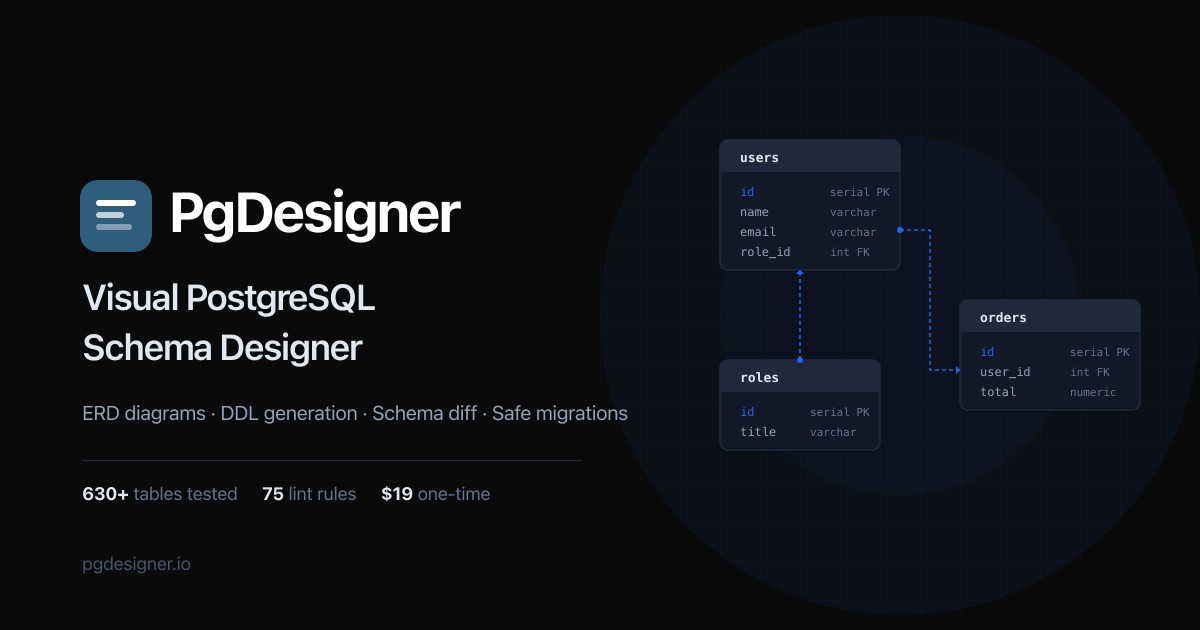
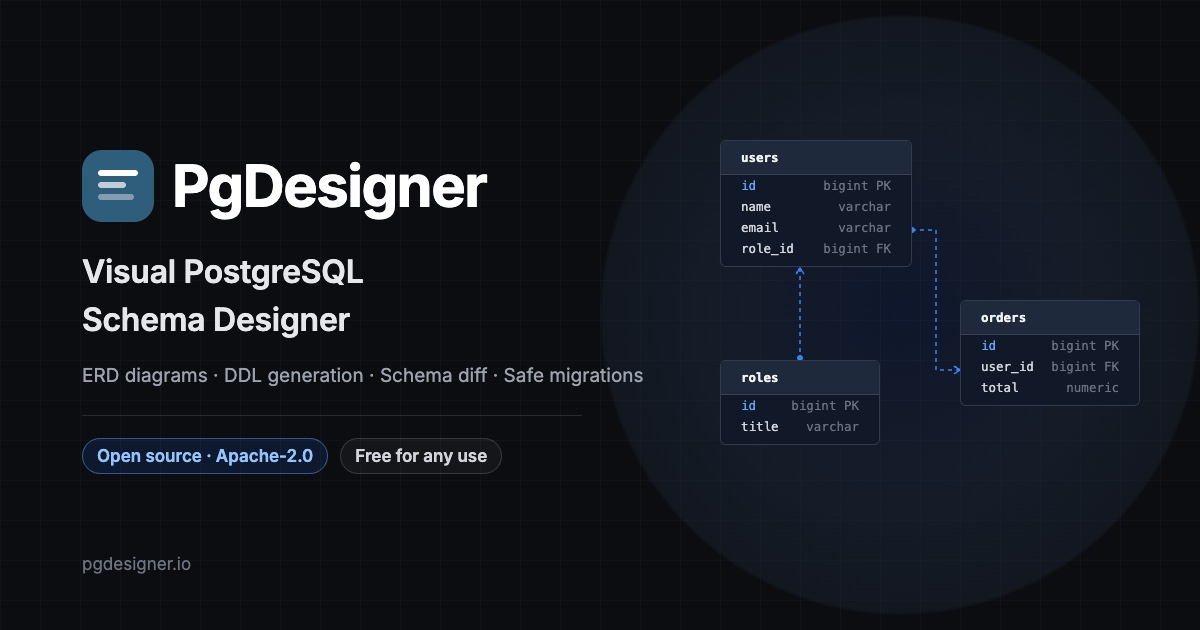
Announce open source in the hero and social card
The social card no longer says $19 and 75 lint rules; its HTML source
lives in design/. The hero links to the announcement, drops the
duplicate subtitle and shows the brew install command.

diff --git a/design/opengraph.html b/design/opengraph.html
@@ -1,0 +1,79 @@
+<!doctype html>
+<html>
+<head>
+<!-- Source of public/opengraph.jpg (1200x630). Render: serve the repo root over HTTP, open /design/opengraph.html at 1200x630, screenshot, save as JPEG ~88%. Keep counts (lint rules, versions) out of it - they go stale. -->
+<meta charset="utf-8">
+<style>
+  @font-face { font-family: Inter; src: url(../public/fonts/inter-latin-wght-normal.woff2) format("woff2"); font-weight: 100 900; }
+  * { margin: 0; padding: 0; box-sizing: border-box; }
+  html, body { width: 1200px; height: 630px; overflow: hidden; }
+  body {
+    font-family: Inter, sans-serif; color: #fff; position: relative;
+    background:
+      linear-gradient(rgba(255,255,255,.025) 1px, transparent 1px) 0 0 / 40px 40px,
+      linear-gradient(90deg, rgba(255,255,255,.025) 1px, transparent 1px) 0 0 / 40px 40px,
+      #0b0d11;
+  }
+  .glow { position: absolute; width: 600px; height: 600px; border-radius: 50%; left: 600px; top: 15px;
+    background: radial-gradient(circle, rgba(37,99,235,.12) 0%, rgba(30,41,59,.55) 45%, rgba(30,41,59,.35) 70%, transparent 71%); }
+  .left { position: absolute; left: 82px; top: 150px; width: 620px; }
+  .brand { display: flex; align-items: center; gap: 18px; }
+  .brand span { font-size: 58px; font-weight: 700; letter-spacing: -1.5px; }
+  h1 { margin-top: 26px; font-size: 32px; font-weight: 600; line-height: 1.5; color: #e5e7eb; letter-spacing: -.3px; }
+  .feat { margin-top: 20px; font-size: 19px; color: #9ca3af; white-space: nowrap; }
+  hr { margin: 28px 0 22px; border: 0; border-top: 1px solid rgba(255,255,255,.12); width: 500px; }
+  .badges { display: flex; gap: 12px; align-items: center; }
+  .badge { font-size: 17px; font-weight: 600; padding: 7px 14px; border-radius: 999px; border: 1px solid rgba(96,165,250,.45); color: #93c5fd; background: rgba(37,99,235,.14); }
+  .badge.plain { border-color: rgba(255,255,255,.14); color: #d1d5db; background: rgba(255,255,255,.04); }
+  .url { position: absolute; left: 82px; bottom: 56px; font-size: 17px; color: #6b7280; }
+  .tbl { position: absolute; width: 180px; border: 1px solid rgba(148,163,184,.25); border-radius: 6px; background: #111827; font-family: ui-monospace, Menlo, monospace; font-size: 12.5px; }
+  .tbl .h { padding: 9px 20px; font-weight: 700; color: #f3f4f6; background: #1e293b; border-bottom: 1px solid rgba(148,163,184,.2); border-radius: 6px 6px 0 0; }
+  .tbl .r { display: flex; justify-content: space-between; padding: 3px 20px; color: #d1d5db; }
+  .tbl .r:first-of-type { padding-top: 10px; } .tbl .r:last-child { padding-bottom: 10px; }
+  .tbl .r b { font-weight: 400; color: #60a5fa; } .tbl .r i { font-style: normal; color: #6b7280; }
+  svg.lines { position: absolute; left: 0; top: 0; }
+</style>
+</head>
+<body>
+  <div class="glow"></div>
+  <div class="left">
+    <div class="brand">
+      <svg width="72" height="72" viewBox="14 14 36 36"><rect x="14" y="14" width="36" height="36" rx="10" fill="#2F5D7C"/><rect x="22" y="24" width="20" height="3" rx="1.5" fill="#fff"/><rect x="22" y="30" width="14" height="3" rx="1.5" fill="#fff" opacity=".7"/><rect x="22" y="36" width="18" height="3" rx="1.5" fill="#fff" opacity=".4"/></svg>
+      <span>PgDesigner</span>
+    </div>
+    <h1>Visual PostgreSQL<br>Schema Designer</h1>
+    <div class="feat">ERD diagrams · DDL generation · Schema diff · Safe migrations</div>
+    <hr>
+    <div class="badges">
+      <span class="badge">Open source · Apache-2.0</span>
+      <span class="badge plain">Free for any use</span>
+    </div>
+  </div>
+  <div class="url">pgdesigner.io</div>
+
+  <svg class="lines" width="1200" height="630">
+    <path d="M912 230 H936 V370 H960" fill="none" stroke="#3b82f6" stroke-width="1.5" stroke-dasharray="4 4"/>
+    <circle cx="912" cy="230" r="3" fill="#3b82f6"/><path d="M954 366 L960 370 L954 374" fill="none" stroke="#3b82f6" stroke-width="1.5"/>
+    <path d="M800 268 V360" fill="none" stroke="#3b82f6" stroke-width="1.5" stroke-dasharray="4 4"/>
+    <circle cx="800" cy="358" r="3" fill="#3b82f6"/><path d="M796 274 L800 268 L804 274" fill="none" stroke="#3b82f6" stroke-width="1.5"/>
+  </svg>
+  <div class="tbl" style="left:720px; top:140px; width:192px">
+    <div class="h">users</div>
+    <div class="r"><b>id</b><i>bigint PK</i></div>
+    <div class="r"><span>name</span><i>varchar</i></div>
+    <div class="r"><span>email</span><i>varchar</i></div>
+    <div class="r"><span>role_id</span><i>bigint FK</i></div>
+  </div>
+  <div class="tbl" style="left:720px; top:360px; width:160px">
+    <div class="h">roles</div>
+    <div class="r"><b>id</b><i>bigint PK</i></div>
+    <div class="r"><span>title</span><i>varchar</i></div>
+  </div>
+  <div class="tbl" style="left:960px; top:300px">
+    <div class="h">orders</div>
+    <div class="r"><b>id</b><i>bigint PK</i></div>
+    <div class="r"><span>user_id</span><i>bigint FK</i></div>
+    <div class="r"><span>total</span><i>numeric</i></div>
+  </div>
+</body>
+</html>

diff --git a/src/content/blog/pgdesigner-is-now-open-source.md b/src/content/blog/pgdesigner-is-now-open-source.md
@@ -3,8 +3,8 @@ draft: false
 title: "PgDesigner Is Now Open Source (Apache-2.0)"
 snippet: "Starting with v0.1.0, PgDesigner is licensed under Apache-2.0 — free for any use, including commercial. All earlier releases are covered too. Here's why, and how we fund development."
 image:
-  src: "/images/dark.png"
-  alt: "PgDesigner visual ERD editor — now open source under Apache-2.0"
+  src: "/opengraph.jpg"
+  alt: "PgDesigner — Visual PostgreSQL Schema Designer, open source under Apache-2.0"
 thumb:
   src: "/images/blog/thumb-dark.webp"
   alt: "PgDesigner visual ERD editor — now open source under Apache-2.0"
